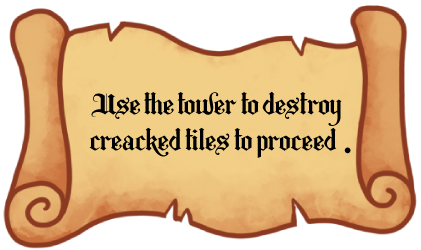
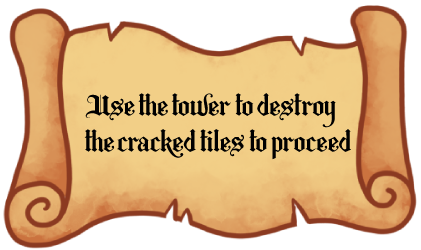
fixed the typo in the instructions

Changed region(s): [[0.1853, 0.364, 0.8337, 0.644]]

diff --git a/src/scenes/Play2.js b/src/scenes/Play2.js
@@ -37,7 +37,6 @@ class Play2 extends Phaser.Scene {
         this.addSprites();
         this.addBorder();
         this.addDoor();
-        this.addInstructions();
         this.spawnL2Enemies();
         this.addBlocks();
         this.addColliders();
@@ -136,15 +135,6 @@ class Play2 extends Phaser.Scene {
             volume: 0.04
         });
         this.songL2.play();
-    }
-
-    addInstructions() {
-        this.add.text(200, 500, 'Instructions: use right and left arrow keys to' +
-            ' move and the up arrow key to jump. Use the spacebar to build ' +
-            'towers to reach greater heights!', {
-            fontFamily: 'Courier', fontSize: '20px',
-            color: '#fff', lineSpacing: 10, wordWrap: { width: width / 3, },
-        });
     }
 
     addCharacter() {
